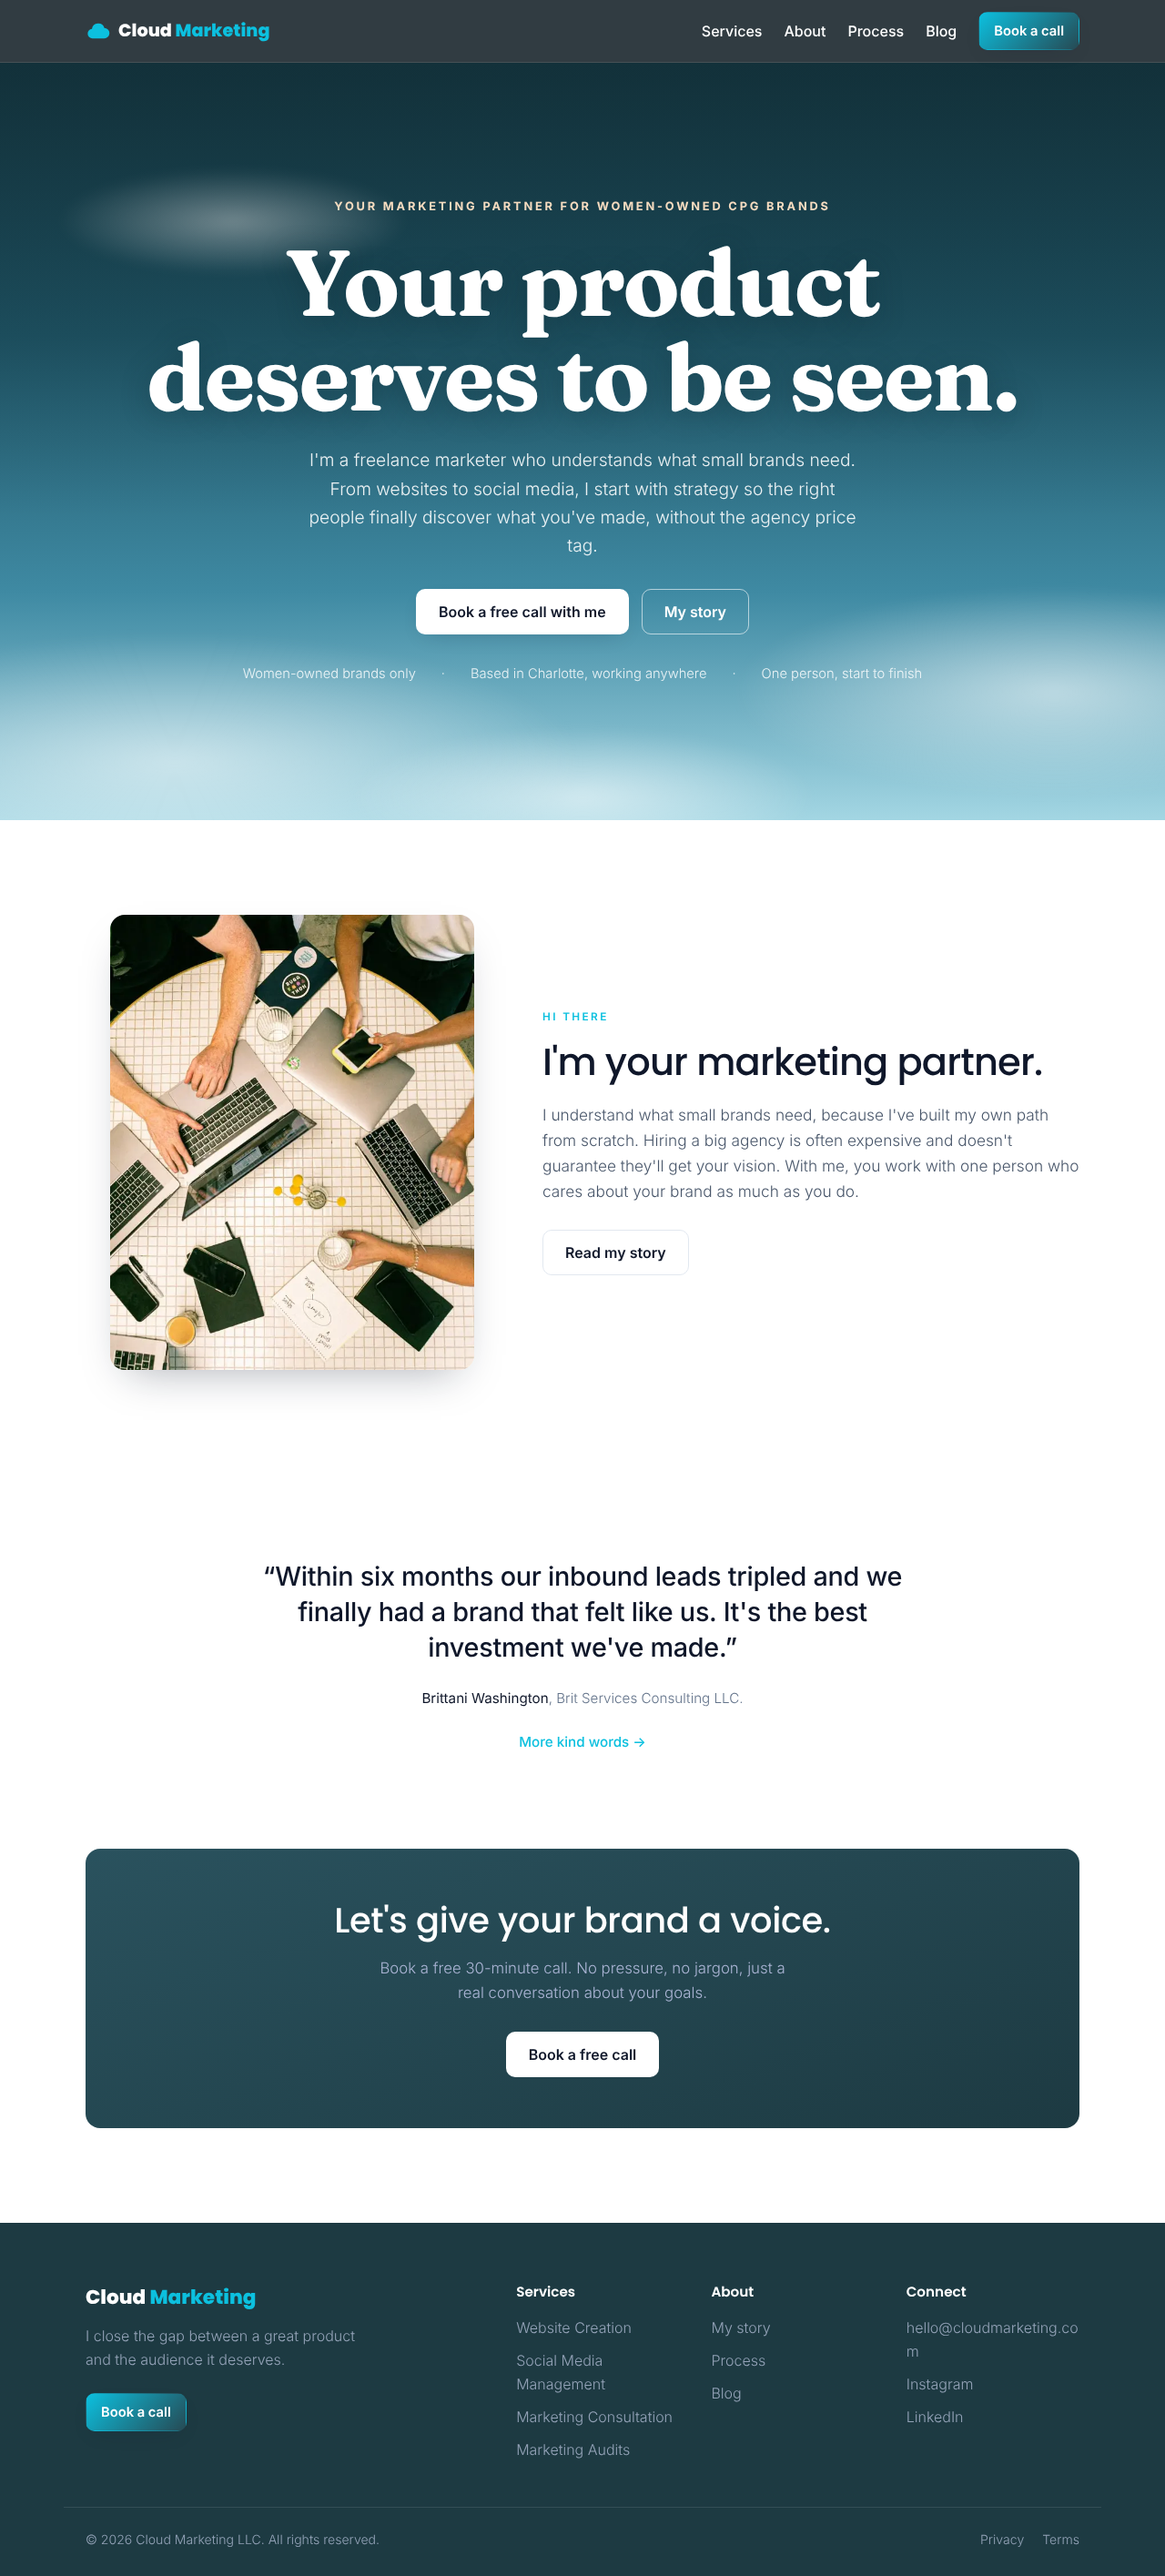
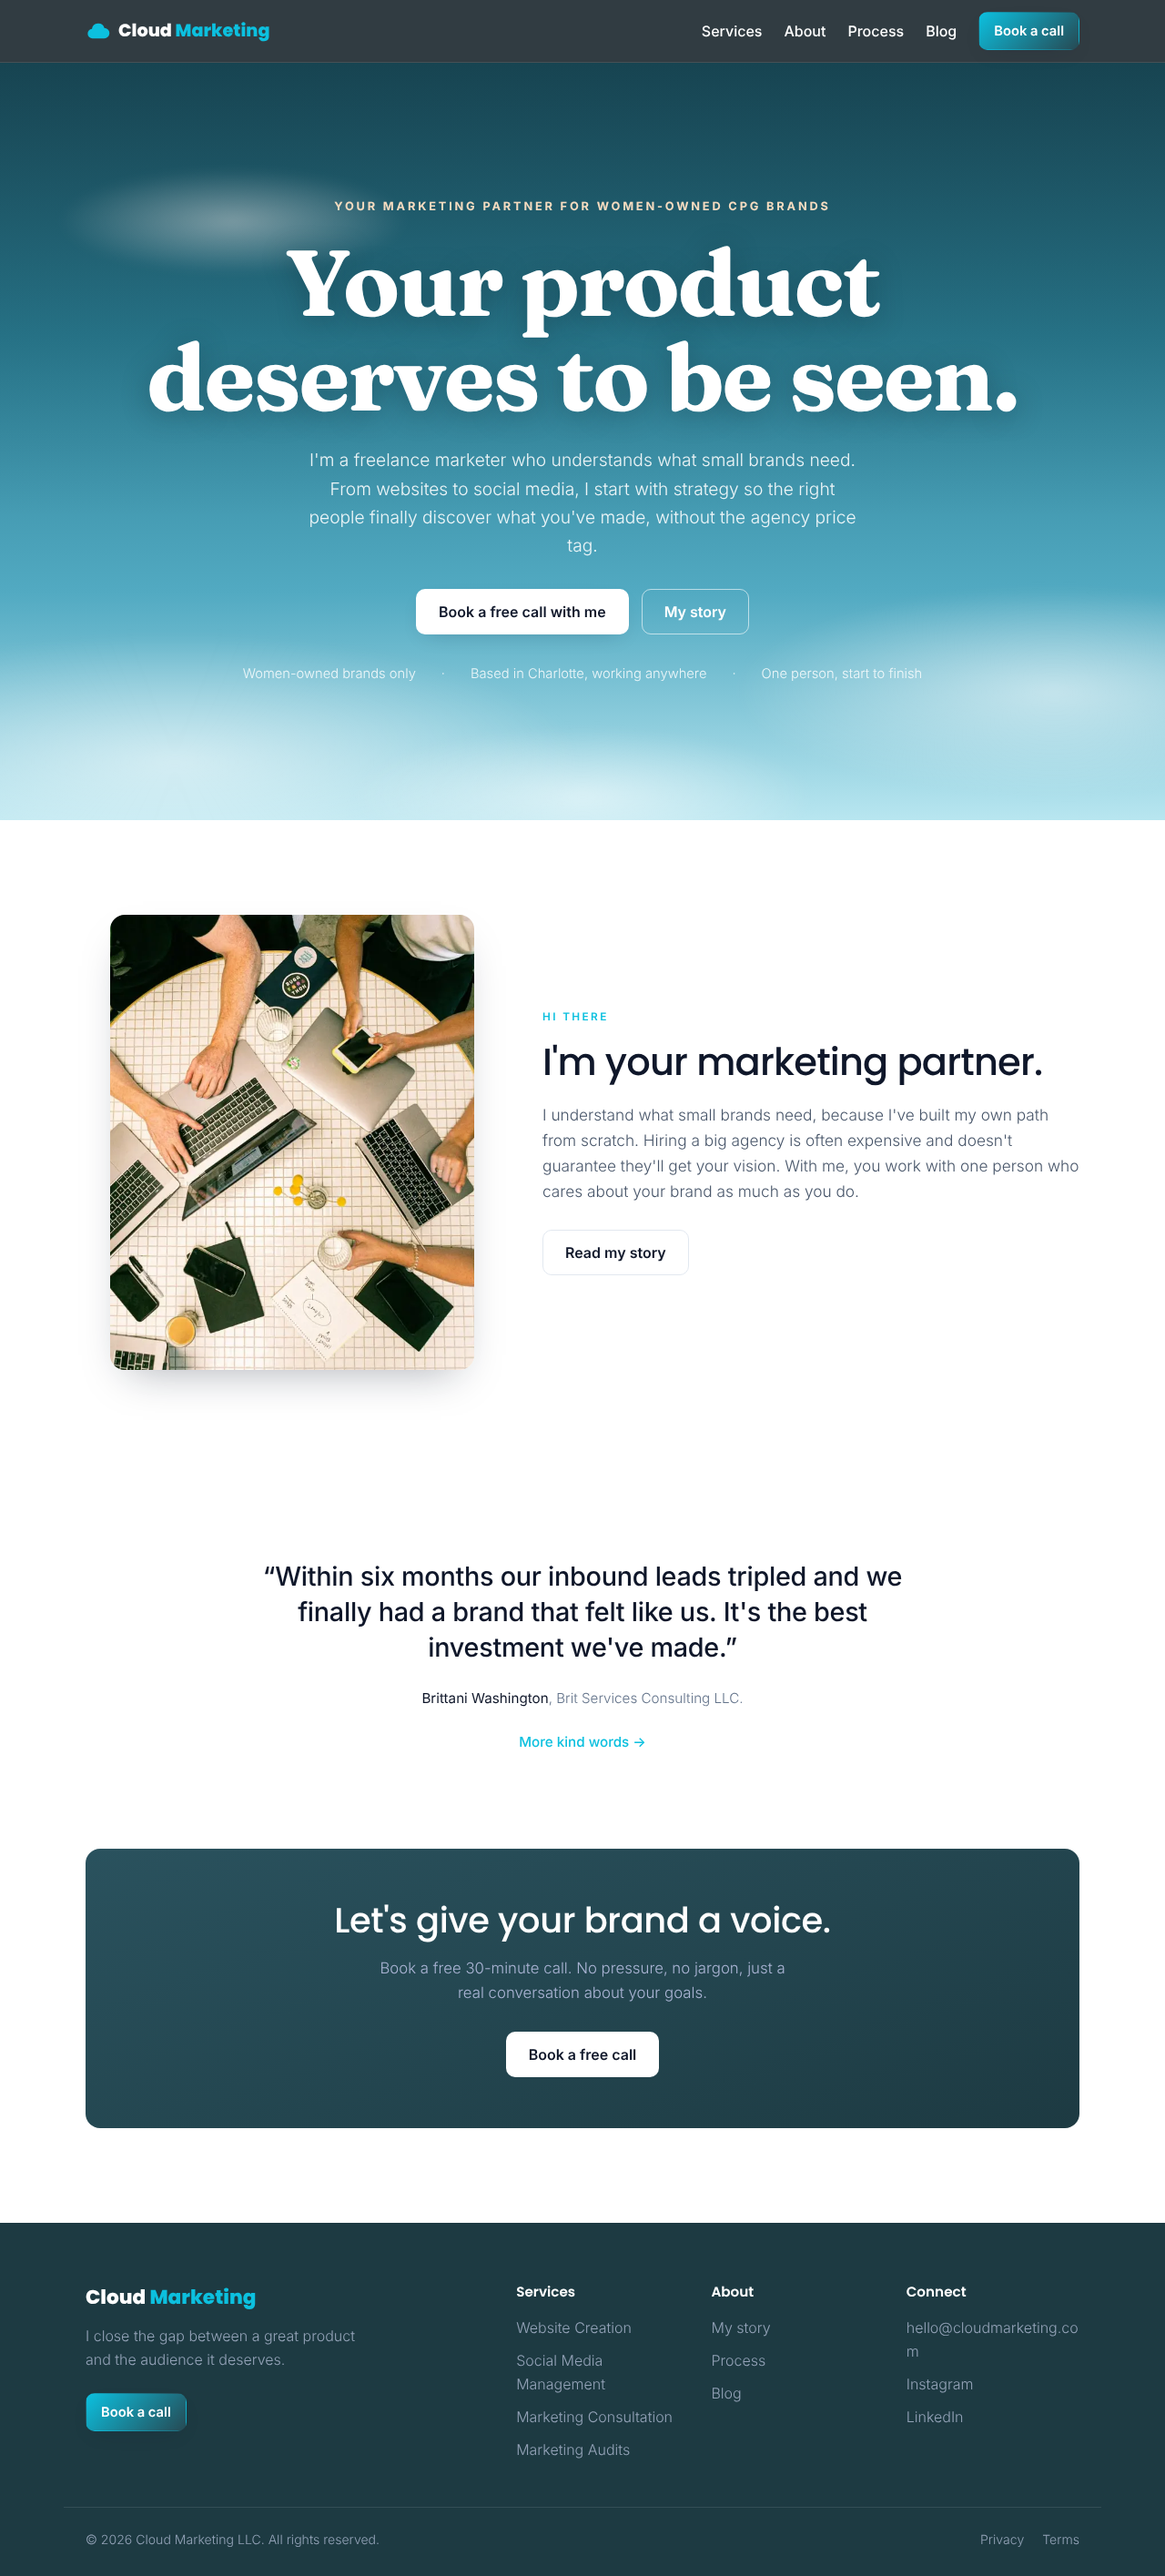
Brighter hero sky; slide-in animations for each Home section
Claude-Session: https://claude.ai/code/session_01BS6Hv8jWvS9UUisMcfmDfK

Changed region(s): [[0.0, 0.0311, 1.0, 0.2799]]

diff --git a/components/HomeTeasers.tsx b/components/HomeTeasers.tsx
@@ -5,9 +5,9 @@ import Reveal from "./Reveal";
 
 export function HomeIntro() {
   return (
-    <section className="section">
+    <section className="section overflow-hidden">
       <div className="container-x grid items-center gap-12 max-[900px]:grid-cols-1 min-[901px]:grid-cols-[1fr_1.3fr]">
-        <Reveal>
+        <Reveal from="left">
           <Image
             src="/home-workspace.jpg"
             alt="Laptops, phones and notebooks around a table during a marketing planning session"
@@ -17,7 +17,7 @@ export function HomeIntro() {
             className="mx-auto aspect-[4/5] w-full max-w-[400px] rounded-card object-cover shadow-card"
           />
         </Reveal>
-        <Reveal delay={120}>
+        <Reveal from="right" delay={150}>
           <p className="eyebrow">Hi there</p>
           <h2 className="mb-5 text-[clamp(1.7rem,3.5vw,2.6rem)] font-medium leading-[1.15] tracking-[-0.02em]">
             I&apos;m your marketing partner.
@@ -42,7 +42,7 @@ export function HomeIntro() {
 export function HomeQuote() {
   return (
     <section className="section">
-      <Reveal className="container-x mx-auto max-w-[760px] text-center">
+      <Reveal from="up" className="container-x mx-auto max-w-[760px] text-center">
         <blockquote className="text-[clamp(1.3rem,2.6vw,1.8rem)] font-medium leading-[1.35] tracking-[-0.01em] text-ink">
           &ldquo;Within six months our inbound leads tripled and we finally had a
           brand that felt like us. It&apos;s the best investment we&apos;ve made.&rdquo;
@@ -61,7 +61,7 @@ export function HomeQuote() {
 export function HomeBanner() {
   return (
     <section className="pb-[104px] max-[720px]:pb-20">
-      <Reveal className="container-x">
+      <Reveal from="zoom" className="container-x">
         <div className="rounded-card bg-[linear-gradient(160deg,#2a525e,#1d3a42)] px-8 py-14 text-center text-white md:px-16">
           <h2 className="text-[clamp(1.6rem,3.4vw,2.4rem)] font-medium leading-[1.2] tracking-[-0.01em] text-white">
             Let&apos;s give your brand a voice.

diff --git a/components/Reveal.tsx b/components/Reveal.tsx
@@ -7,6 +7,8 @@ type RevealProps = {
   className?: string;
   /** Stagger delay in milliseconds. */
   delay?: number;
+  /** Direction the content slides in from. Defaults to a short rise. */
+  from?: "up" | "left" | "right" | "zoom";
 };
 
 /**
@@ -15,7 +17,7 @@ type RevealProps = {
  * isn't available, and is disabled entirely under prefers-reduced-motion
  * (handled in globals.css).
  */
-export default function Reveal({ children, className = "", delay = 0 }: RevealProps) {
+export default function Reveal({ children, className = "", delay = 0, from = "up" }: RevealProps) {
   const ref = useRef<HTMLDivElement>(null);
   const [visible, setVisible] = useState(false);
 
@@ -47,7 +49,7 @@ export default function Reveal({ children, className = "", delay = 0 }: RevealPr
   return (
     <div
       ref={ref}
-      className={`reveal ${visible ? "is-visible" : ""} ${className}`.trim()}
+      className={`reveal reveal-${from} ${visible ? "is-visible" : ""} ${className}`.trim()}
       style={delay ? { transitionDelay: `${delay}ms` } : undefined}
     >
       {children}

diff --git a/app/globals.css b/app/globals.css
@@ -117,7 +117,7 @@ html {
 }
 /* Home hero: a deep teal-blue sky (matches the brand teal) that softens toward the horizon */
 .hero-sky {
-  background: linear-gradient(180deg, #163842 0%, #1f5566 36%, #3f8aa3 70%, #a3d6e3 100%);
+  background: linear-gradient(180deg, #1c5363 0%, #2a7d93 36%, #52aac2 70%, #b8e6f0 100%);
 }
 .hero-clouds .cloud {
   position: absolute;
@@ -155,9 +155,18 @@ html {
   opacity: 0;
   transform: translateY(22px);
   transition:
-    opacity 0.7s cubic-bezier(0.21, 0.6, 0.35, 1),
-    transform 0.7s cubic-bezier(0.21, 0.6, 0.35, 1);
+    opacity 0.9s cubic-bezier(0.21, 0.6, 0.35, 1),
+    transform 0.9s cubic-bezier(0.21, 0.6, 0.35, 1);
   will-change: opacity, transform;
+}
+.reveal-left {
+  transform: translateX(-60px);
+}
+.reveal-right {
+  transform: translateX(60px);
+}
+.reveal-zoom {
+  transform: translateY(30px) scale(0.96);
 }
 .reveal.is-visible {
   opacity: 1;

diff --git a/components/Hero.tsx b/components/Hero.tsx
@@ -17,7 +17,7 @@ export default function Hero() {
 
       {/* Deepens the top so the headline stays crisp */}
       <div
-        className="absolute inset-0 z-[1] bg-[linear-gradient(180deg,rgba(14,40,48,0.45),rgba(14,40,48,0)_60%)]"
+        className="absolute inset-0 z-[1] bg-[linear-gradient(180deg,rgba(14,40,48,0.35),rgba(14,40,48,0)_60%)]"
         aria-hidden="true"
       />
 
